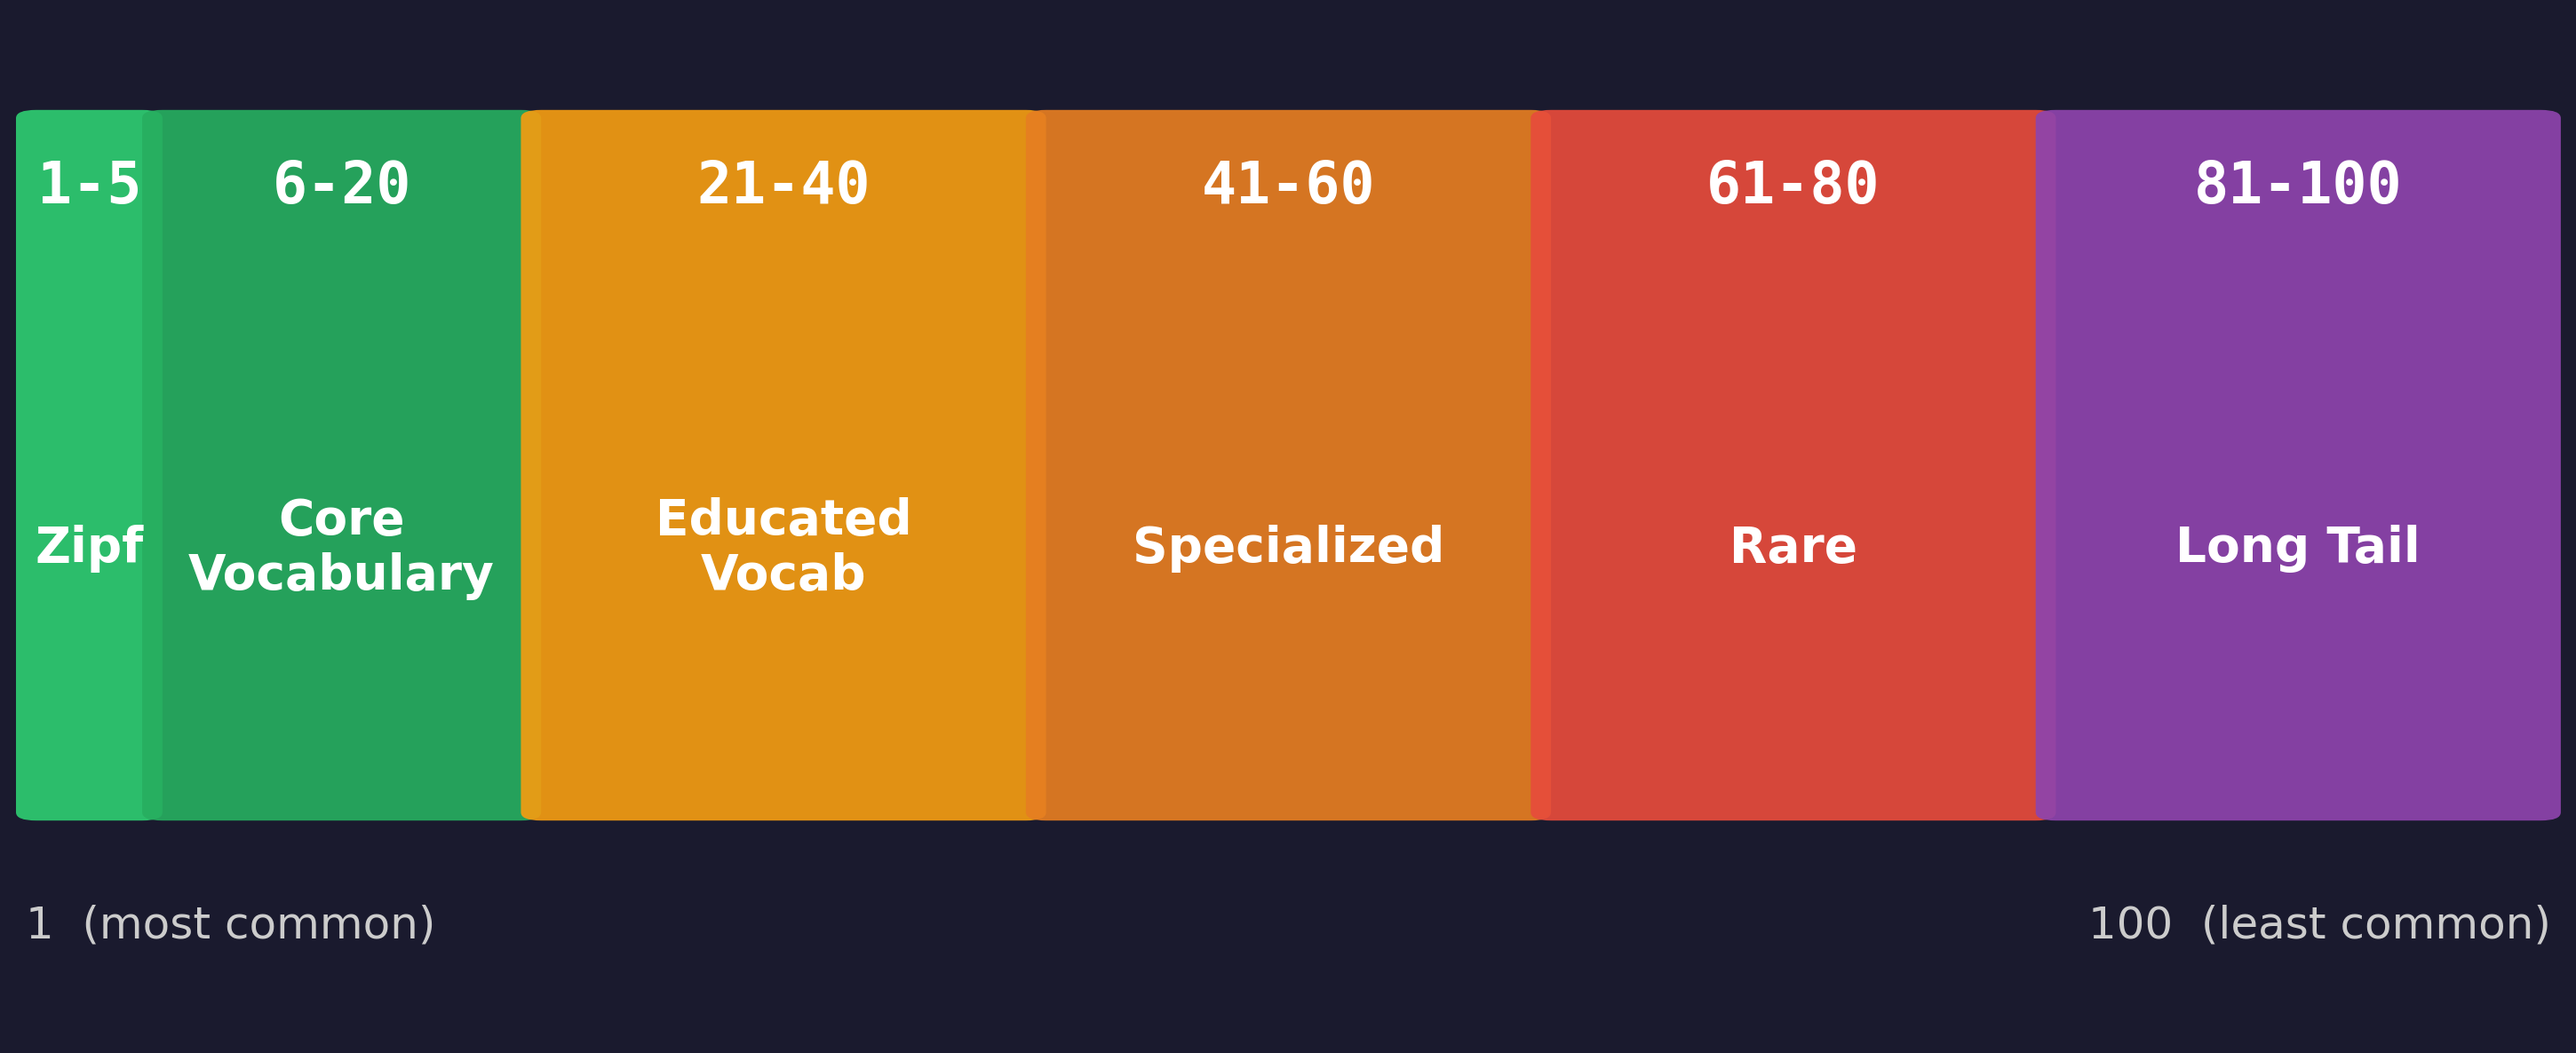
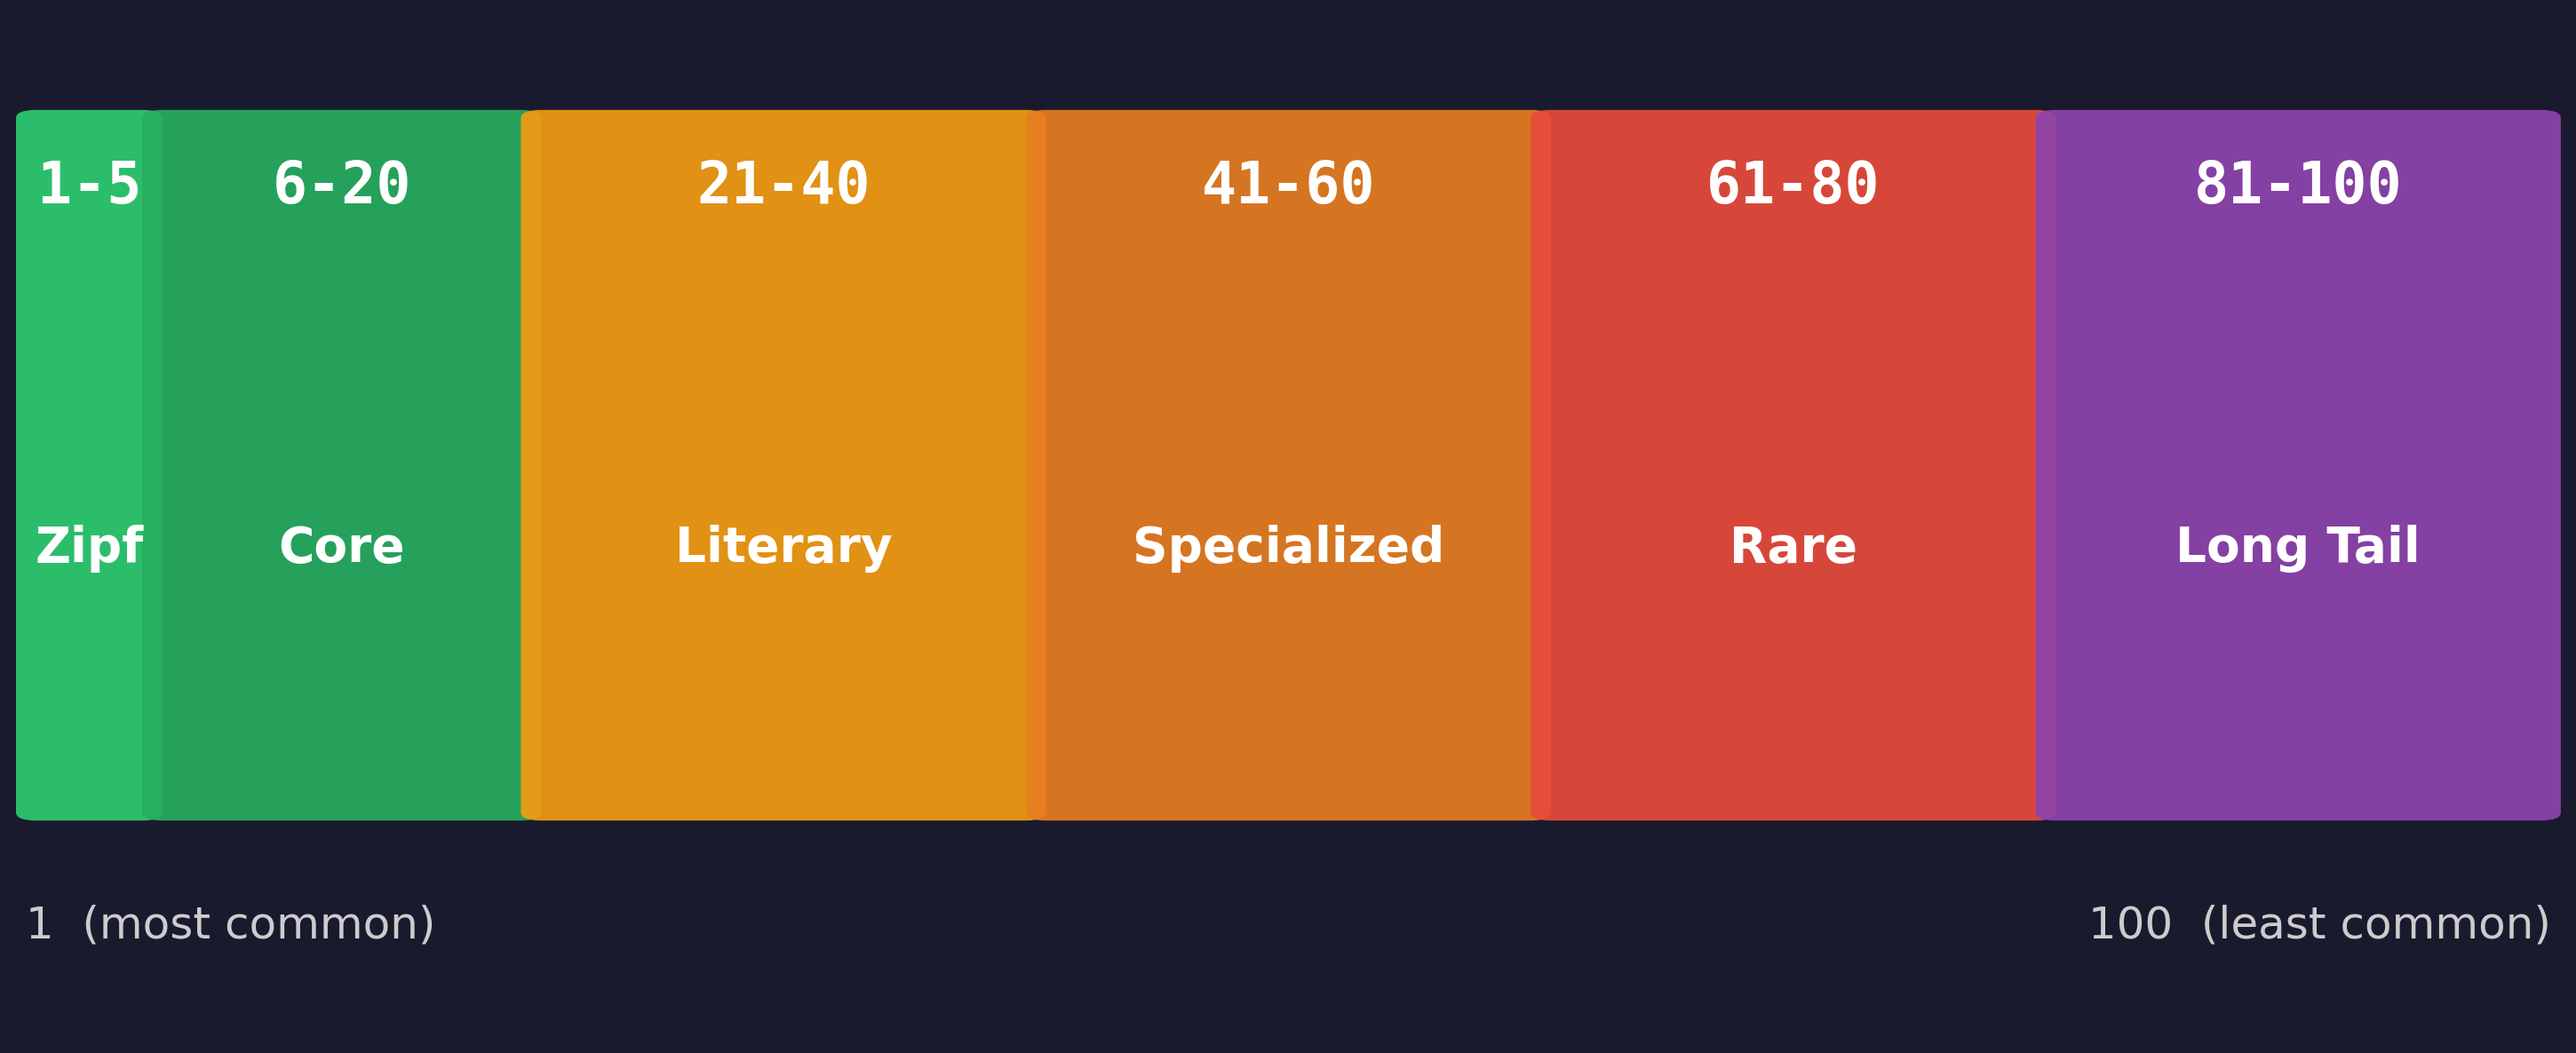
docs: Update zone labels to Zipf/Core/Literary, bump to 1.2.5

Changed region(s): [[0.2483, 0.468, 0.3724, 0.5616], [0.0621, 0.468, 0.1862, 0.5616]]

diff --git a/README.md b/README.md
@@ -61,9 +61,9 @@ Words are scored 1–100 based on their total corpus frequency, log-normalized a
 
 | Score | Zone | Description | Examples |
 |-------|------|-------------|----------|
-| 1–5 | Zipfian summit | Function words dominating millions of books | the, of, and, to, a |
-| 6–20 | Core vocabulary | Everyday words known by all speakers | computer, walk, beautiful |
-| 21–40 | Educated vocabulary | Standard written English | algorithm, philosophy, synthesis |
+| 1–5 | Zipf | Function words dominating millions of books | the, of, and, to, a |
+| 6–20 | Core | Everyday words known by all speakers | computer, walk, beautiful |
+| 21–40 | Literary | Vocabulary of books, not everyday speech | algorithm, philosophy, synthesis |
 | 41–60 | Specialized vocabulary | Domain-specific but attested | rucksack, carbonate, heliotrope |
 | 61–80 | Rare vocabulary | Infrequent but legitimate | arcane technical and literary terms |
 | 81–100 | Long tail | Extremely low frequency | niche, archaic, or highly specialized |
